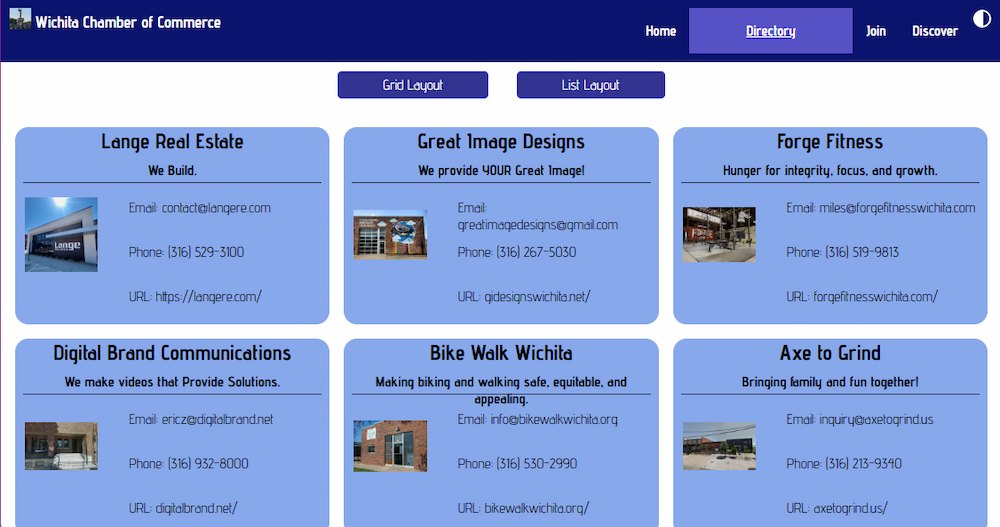
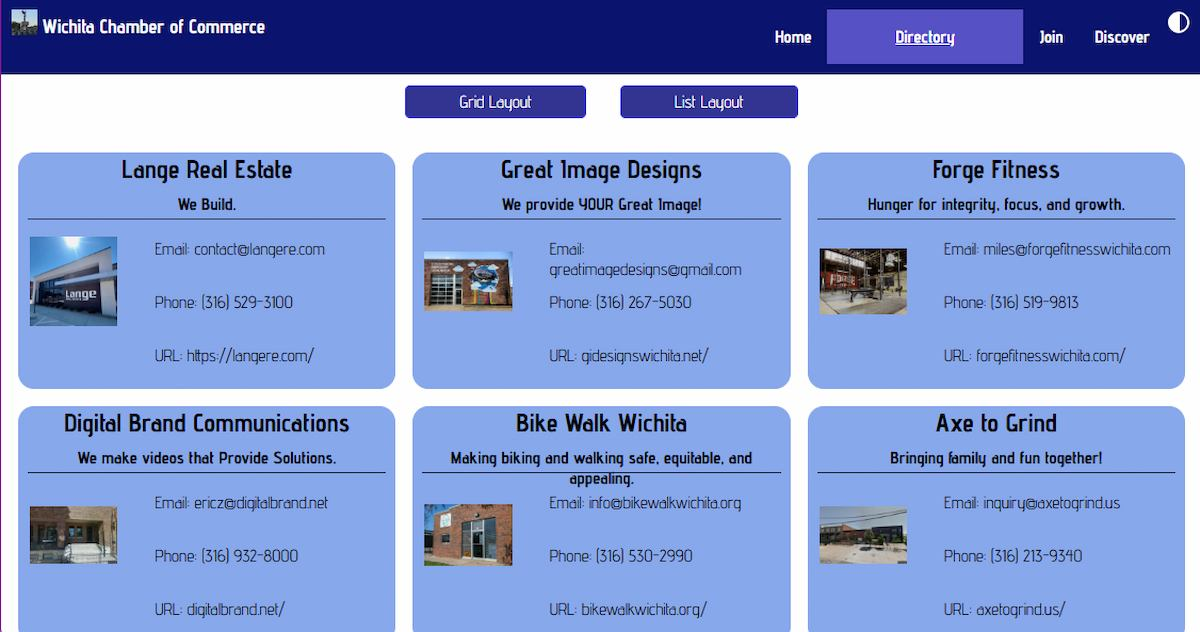
Updated code.

diff --git a/chamber/directory.html b/chamber/directory.html
@@ -4,10 +4,10 @@
 <head>
     <meta charset="UTF-8">
     <meta name="viewport" content="width=device-width, initial-scale=1.0">
-    <title>Wichita Chamber of Commerce</title>
+    <title>Directory</title>
     <meta name="description" content="Wichita Chamber of Commerce directory page that displays overview information for the site.">
     <meta name="author" content="Kelsey Hansel">
-    <meta name="og:title" content="Wichita Chamber of Commerce">
+    <meta name="og:title" content="Wichita Chamber of Commerce Directory Page">
     <meta name="og:description" content="Wichita Chamber of Commerce directory page that displays overview information for the site.">
     <meta name="og:image" content="images/directory-preview.jpg">
     <meta name="og:url" content="https://kelsey-hansel.github.io/wdd231/chamber/directory.html">
